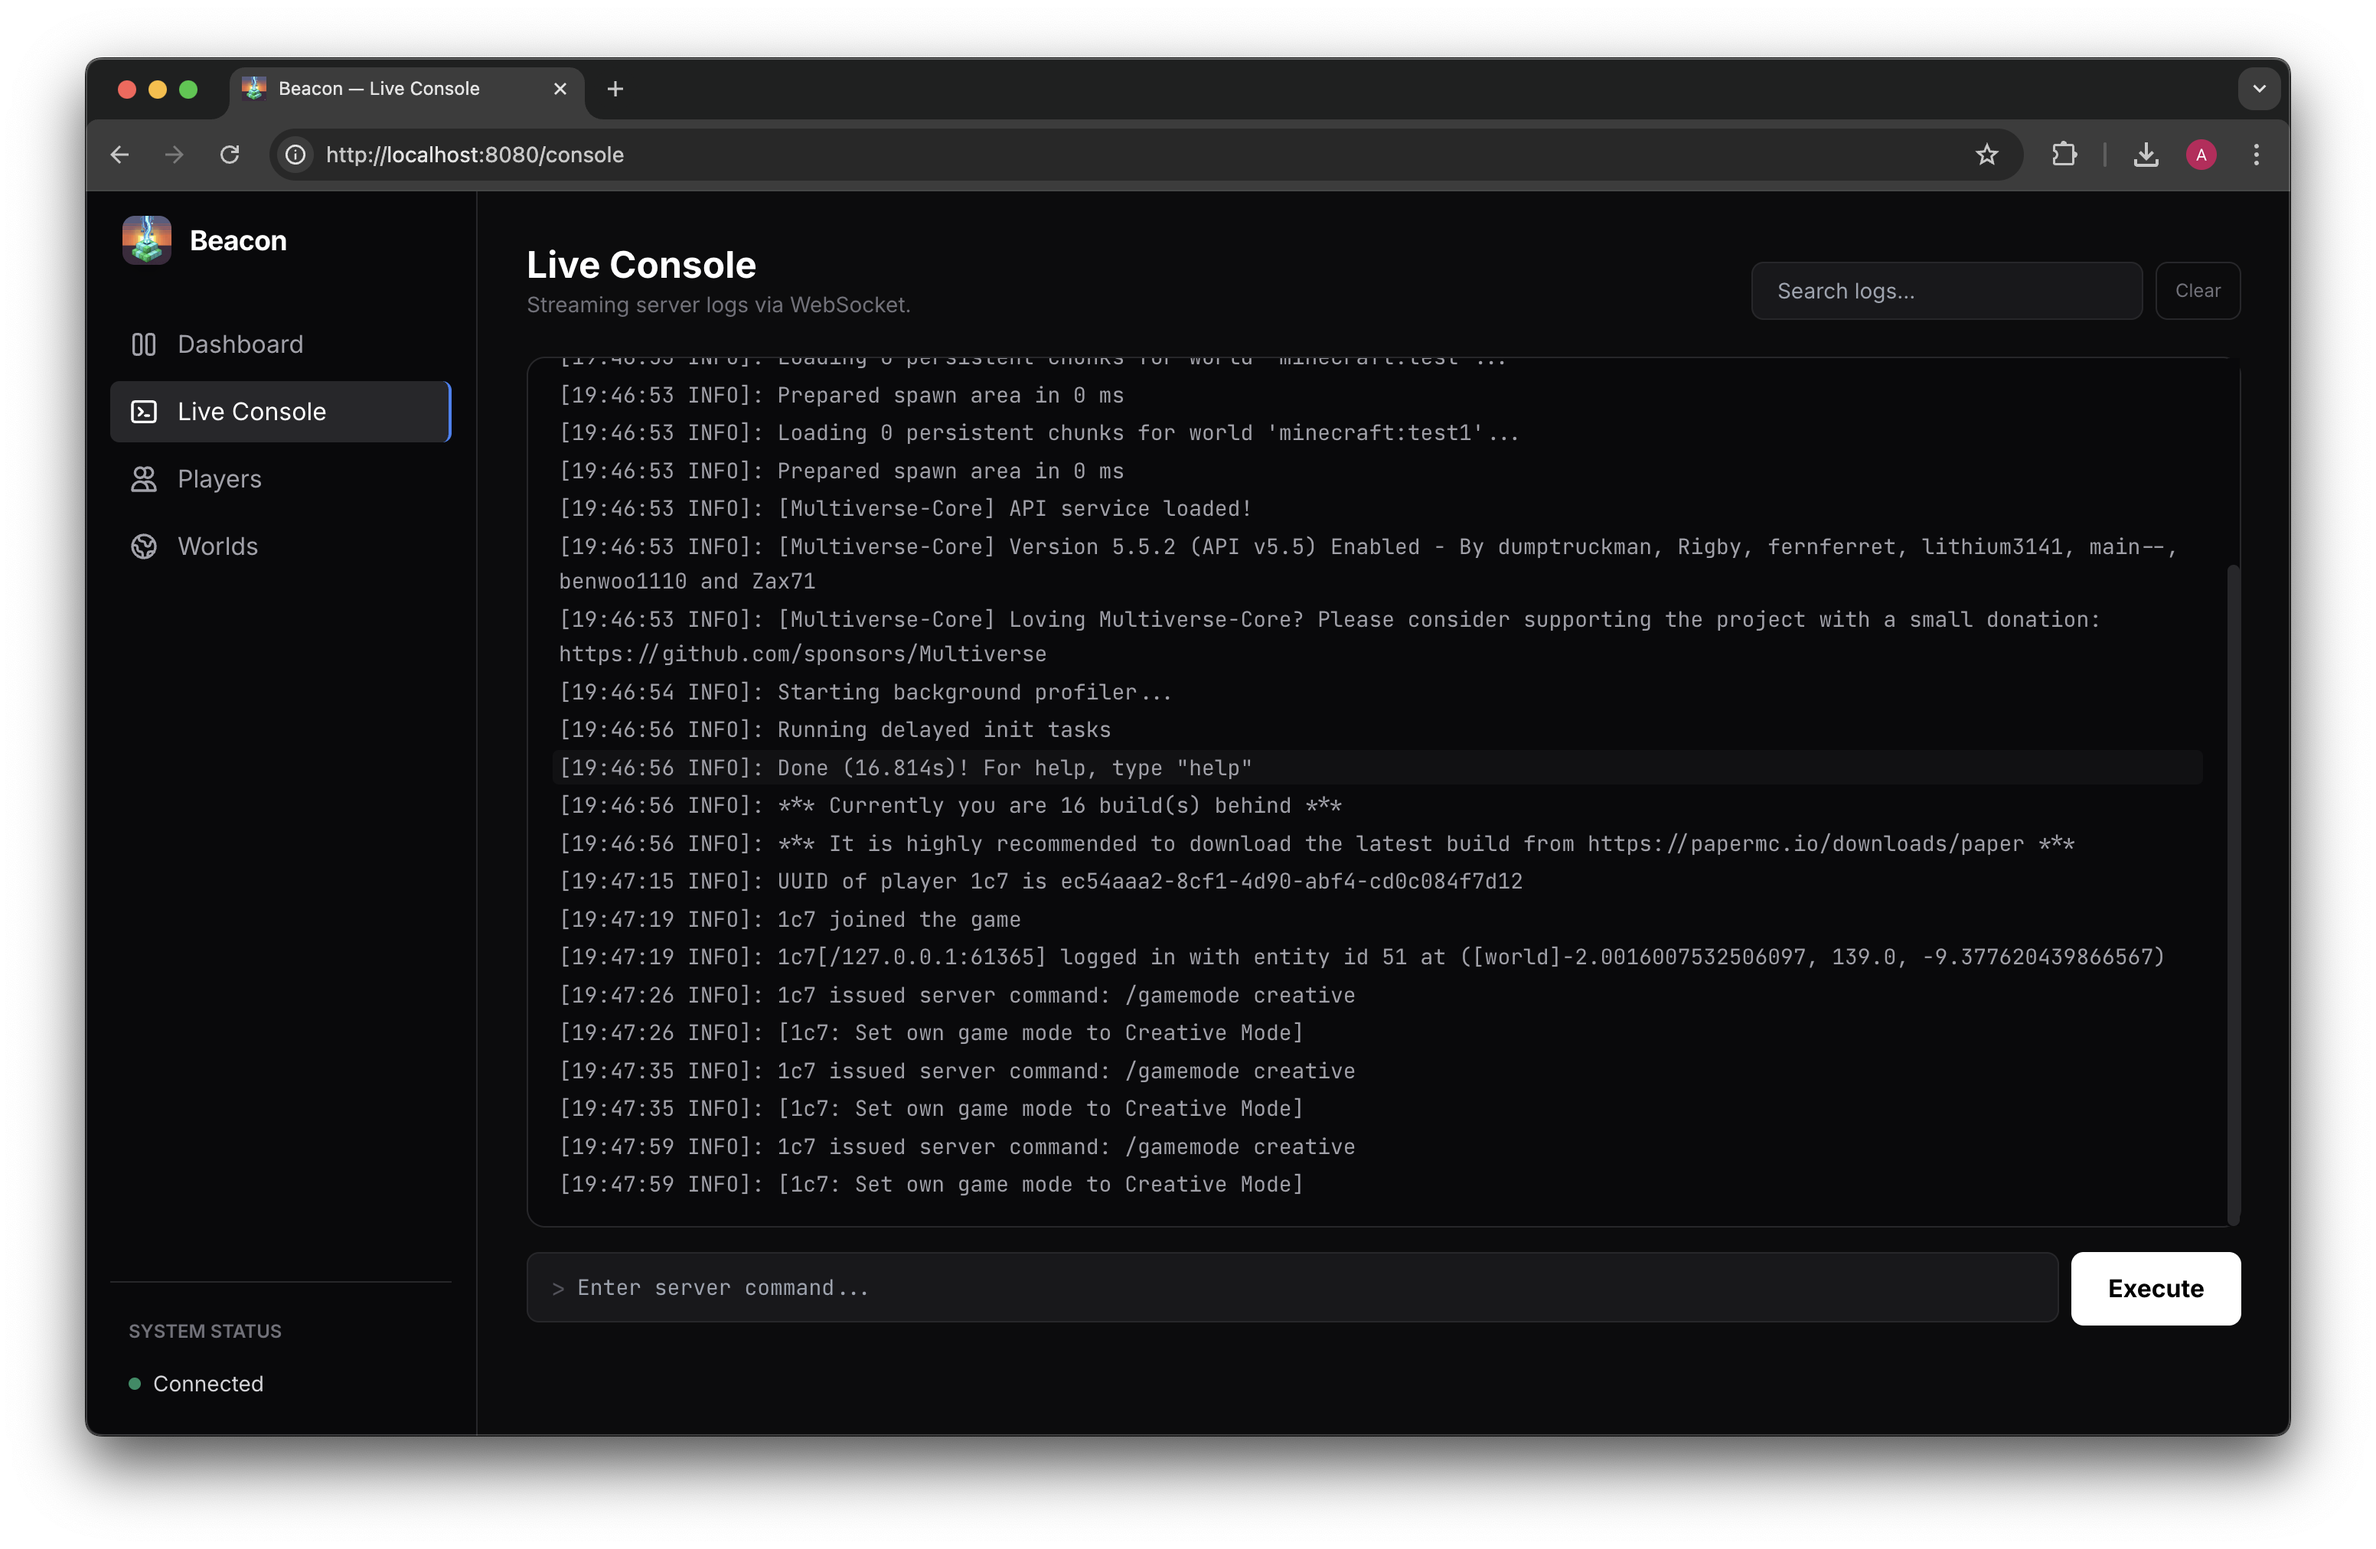
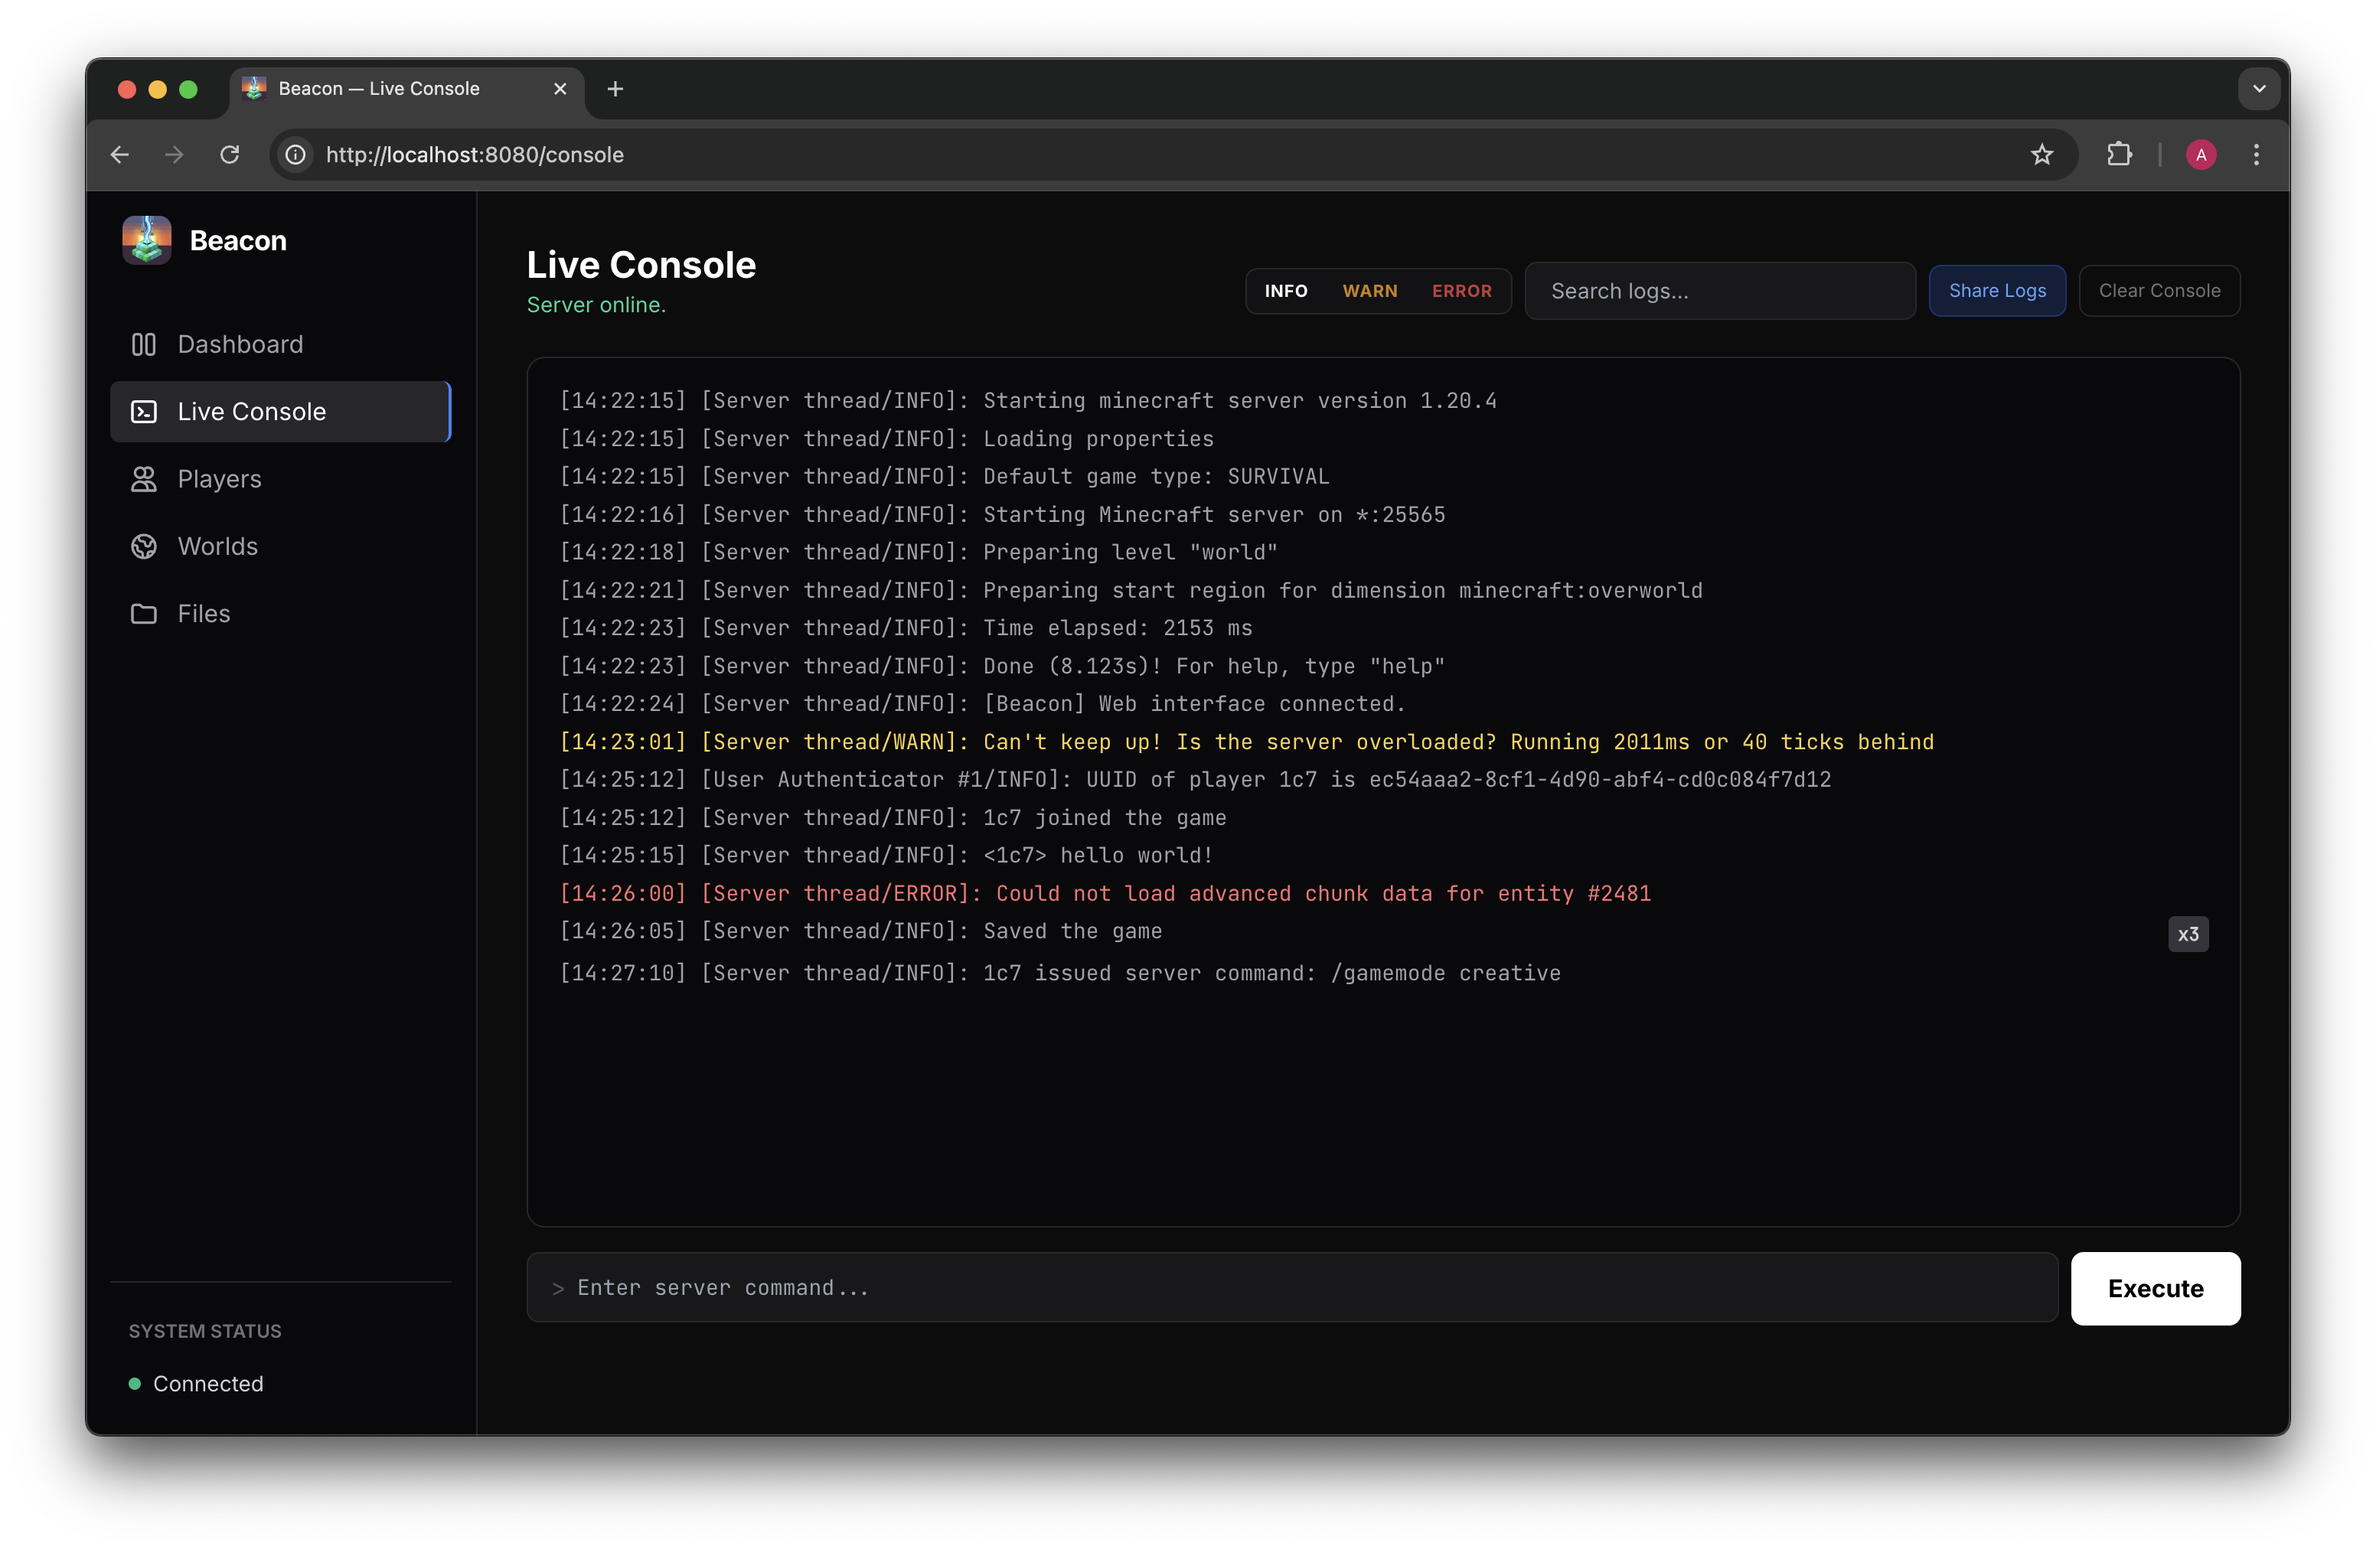
readme update

diff --git a/README.md b/README.md
@@ -1,32 +1,56 @@
 # Beacon
 
-**Beacon** is a lightweight, real-time web monitoring and management suite for Minecraft servers. It provides server administrators with a live tap into their server's console, health metrics, world data, and player activity through a sleek, modern web dashboard.
-
-<div align="center">
-  <img src="assets/ss_overview.png" alt="System Overview" width="800" />
-</div>
+**Beacon** is a lightweight, real-time web monitoring and management suite for Minecraft servers. It provides server administrators with a live tap into their server's console, health metrics, world data, files, and player activity through a sleek, modern web dashboard.
 
 ---
 
 ## 🚀 Features
 
 ### 📊 System Overview (Dashboard)
+<div align="center">
+  <img src="assets/ss_dashboard.png" alt="System Overview" width="800" />
+</div>
+
 The command center for your server's health and performance.
 * **Live Graphs:** Real-time, animated graphs tracking Server TPS and RAM usage over the last 60 seconds.
 * **Danger Zone Controls:** Send Stop, Restart, and Save-All commands directly from the UI.
-* **World Radar:** A visual progress bar showing which of your top 3 dimensions is consuming the most server resources.
-* **Recent Events Feed:** A cleanly filtered, color-coded feed of console high-level events.
-* **Environment Info:** Instantly see your server's OS, Java version, and exact Paper build number.
+* **World Radar:** A visual progress bar showing which of your top dimensions are consuming the most server resources.
+* **Recent Events Feed:** A cleanly filtered, color-coded feed of console high-level events (joins, leaves, saves, warnings, and errors).
+* **Environment Info:** Instantly see your server's OS, Java version, and exact software build.
+
+### 📁 File Manager
+<div align="center">
+  <img src="assets/ss_filemanager.png" alt="File Manager" width="800" />
+</div>
+
+A full-fledged file browser and code editor built right into your dashboard.
+* **Web-Based Code Editor:** Edit configuration files instantly using the integrated Monaco Editor (the same powerful engine behind VS Code).
+* **Full File Operations:** Browse directories, download files to your local machine, and delete files directly from your browser.
+* **Breadcrumb Navigation:** Easily navigate complex plugin folder structures.
+* **Real-time Saves:** Push changes live to your server with a single click or standard keyboard shortcuts (Ctrl+S / Cmd+S).
 
 ### 🌍 World Manager
 <div align="center">
-  <img src="assets/ss_worldmanager.png" alt="World Manager" width="800" />
+  <img src="assets/ss_worlds.png" alt="World Manager" width="800" />
 </div>
 
 Monitor and manipulate individual dimensions on the fly.
 * **Live Dimension Metrics:** View active players, loaded chunks, and entity counts per world.
-* **Environment Controls:** Instantly snap the time to Day/Night or toggle the weather directly via the dashboard.
-* **Time Tracking:** Watch the in-game clock tick in real-time.
+* **Interactive Gamerule Editor:** A fully searchable interface to tweak any dimension's gamerules (booleans and numerics) in real-time.
+* **Environment Controls:** Instantly snap the time to Day/Night, toggle the weather, or force a world save.
+* **Danger Zone:** Unload inactive dimensions to save RAM, or permanently reset a dimension completely from the UI.
+
+### 💻 Live Console
+<div align="center">
+  <img src="assets/ss_console.png" alt="Live Console" width="800" />
+</div>
+
+A seamless, two-way bridge to your server console with advanced developer tools.
+* **Real-Time Streaming:** Console logs are streamed instantly from the server to the dashboard.
+* **Tab Completions:** Type commands faster with live, context-aware tab completions requested straight from the server.
+* **Log Filtering & Search:** Clean up the noise by toggling INFO, WARN, or ERROR messages, or instantly search the live log stream for specific keywords.
+* **One-Click Log Sharing:** Instantly upload and share a snapshot of your visible console logs using the built-in `mclo.gs` integration.
+* **Spam Collapse:** Identical repeating log messages are intelligently collapsed into a single line with a multiplier badge (e.g., `x5`) to keep your feed clean.
 
 ### 👥 Player Management
 <div align="center">
@@ -34,21 +58,10 @@ Monitor and manipulate individual dimensions on the fly.
 </div>
 
 A dedicated interface for monitoring and moderating your community.
-* **Live Roster:** View all connected players, their ping, playtime, and dimension.
+* **Live Roster:** View all connected players, their ping, playtime, and current dimension.
 * **Quick Actions:** Hover over any player to quickly **Kick** or **Ban** them with custom reasons.
 * **Visual Avatars:** Automatically pulls 3D player heads using the MC-Heads API.
 * **Instant Search & Sort:** Filter players by name/UUID or sort by highest ping/playtime.
-
-### 💻 Live Console
-<div align="center">
-  <img src="assets/ss_console.png" alt="Live Console" width="800" />
-</div>
-
-A seamless, two-way bridge to your server console.
-* **Real-Time Streaming:** Console logs are streamed instantly from the server to the dashboard.
-* **Log History:** The backend maintains a buffer of the last 1,000 log lines, providing full context even after refreshing the page.
-* **Command Execution:** Send commands directly to the Minecraft console with full command history.
-* **Smart Search:** Instantly filter the live log stream for specific keywords or player names.
 
 ---
 
